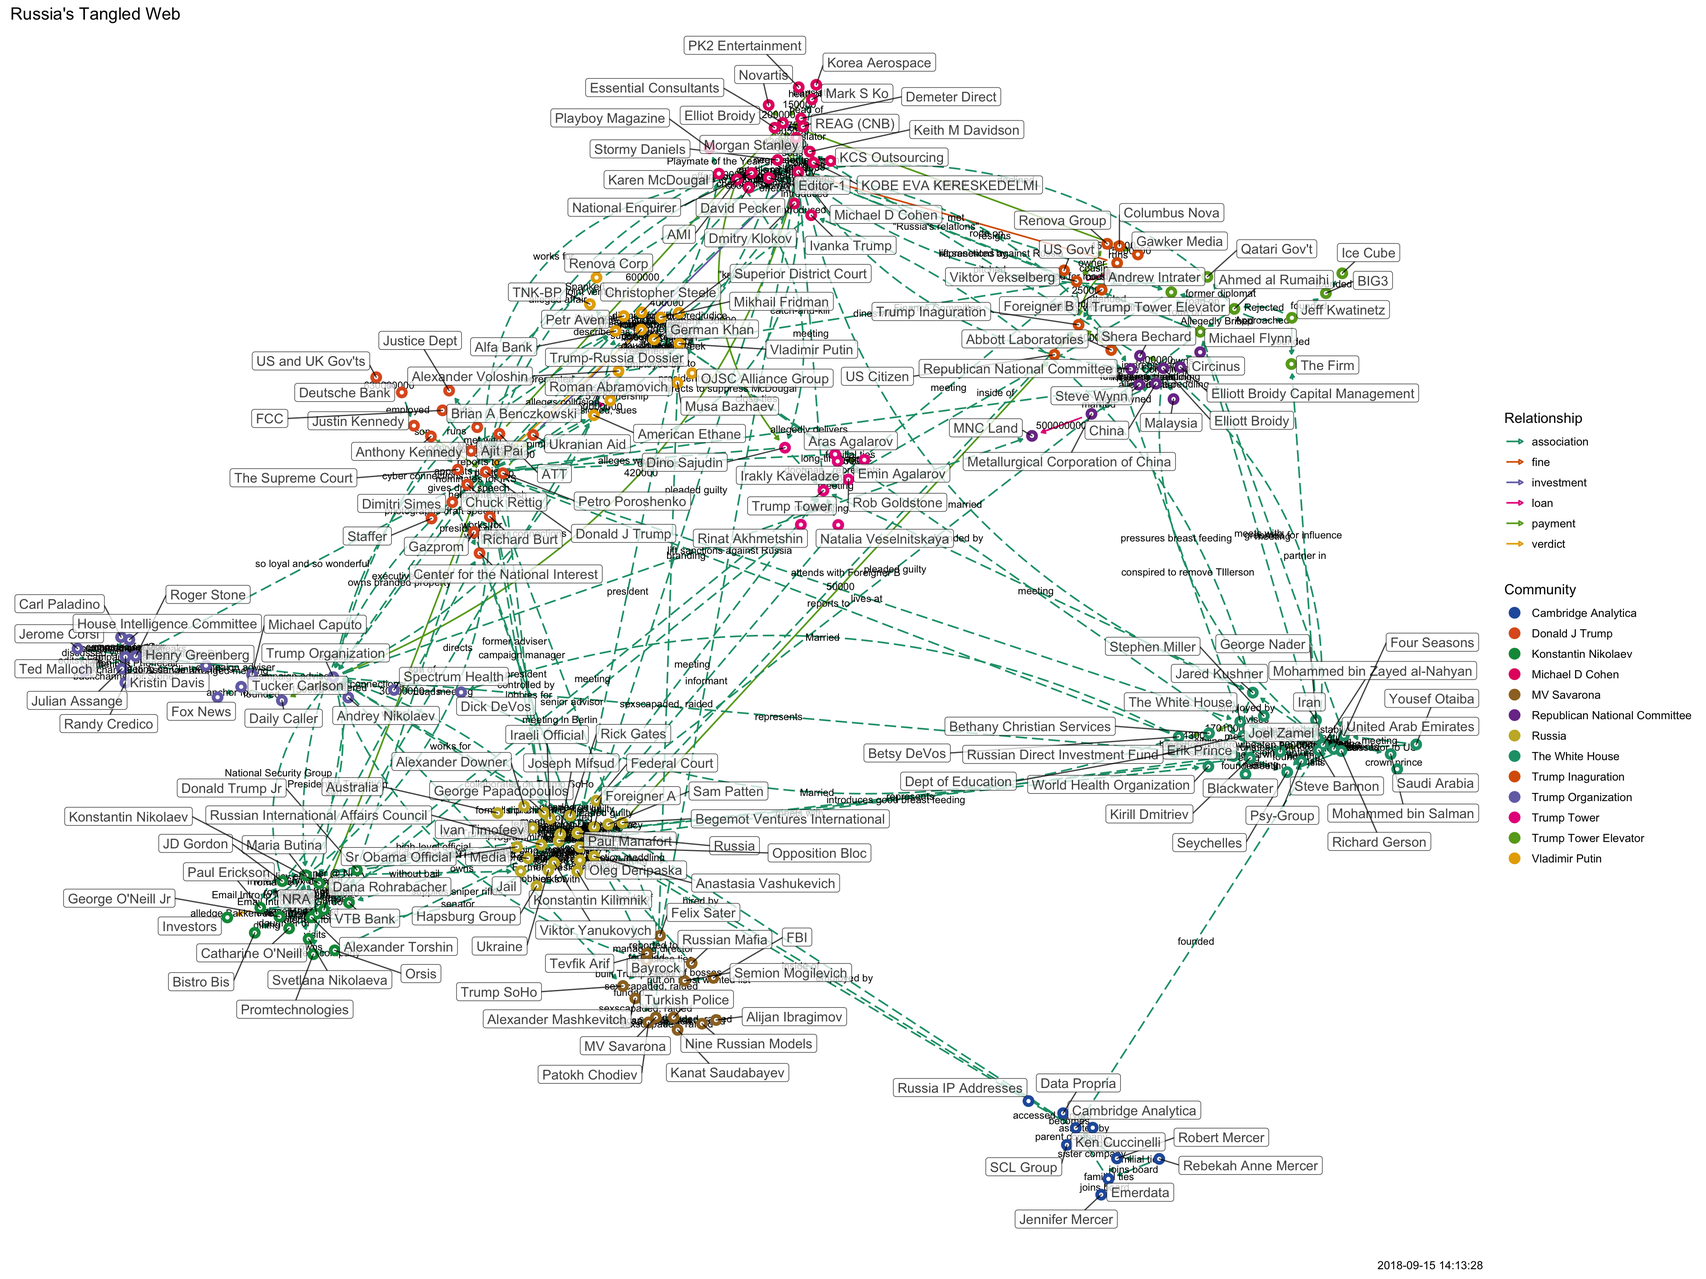
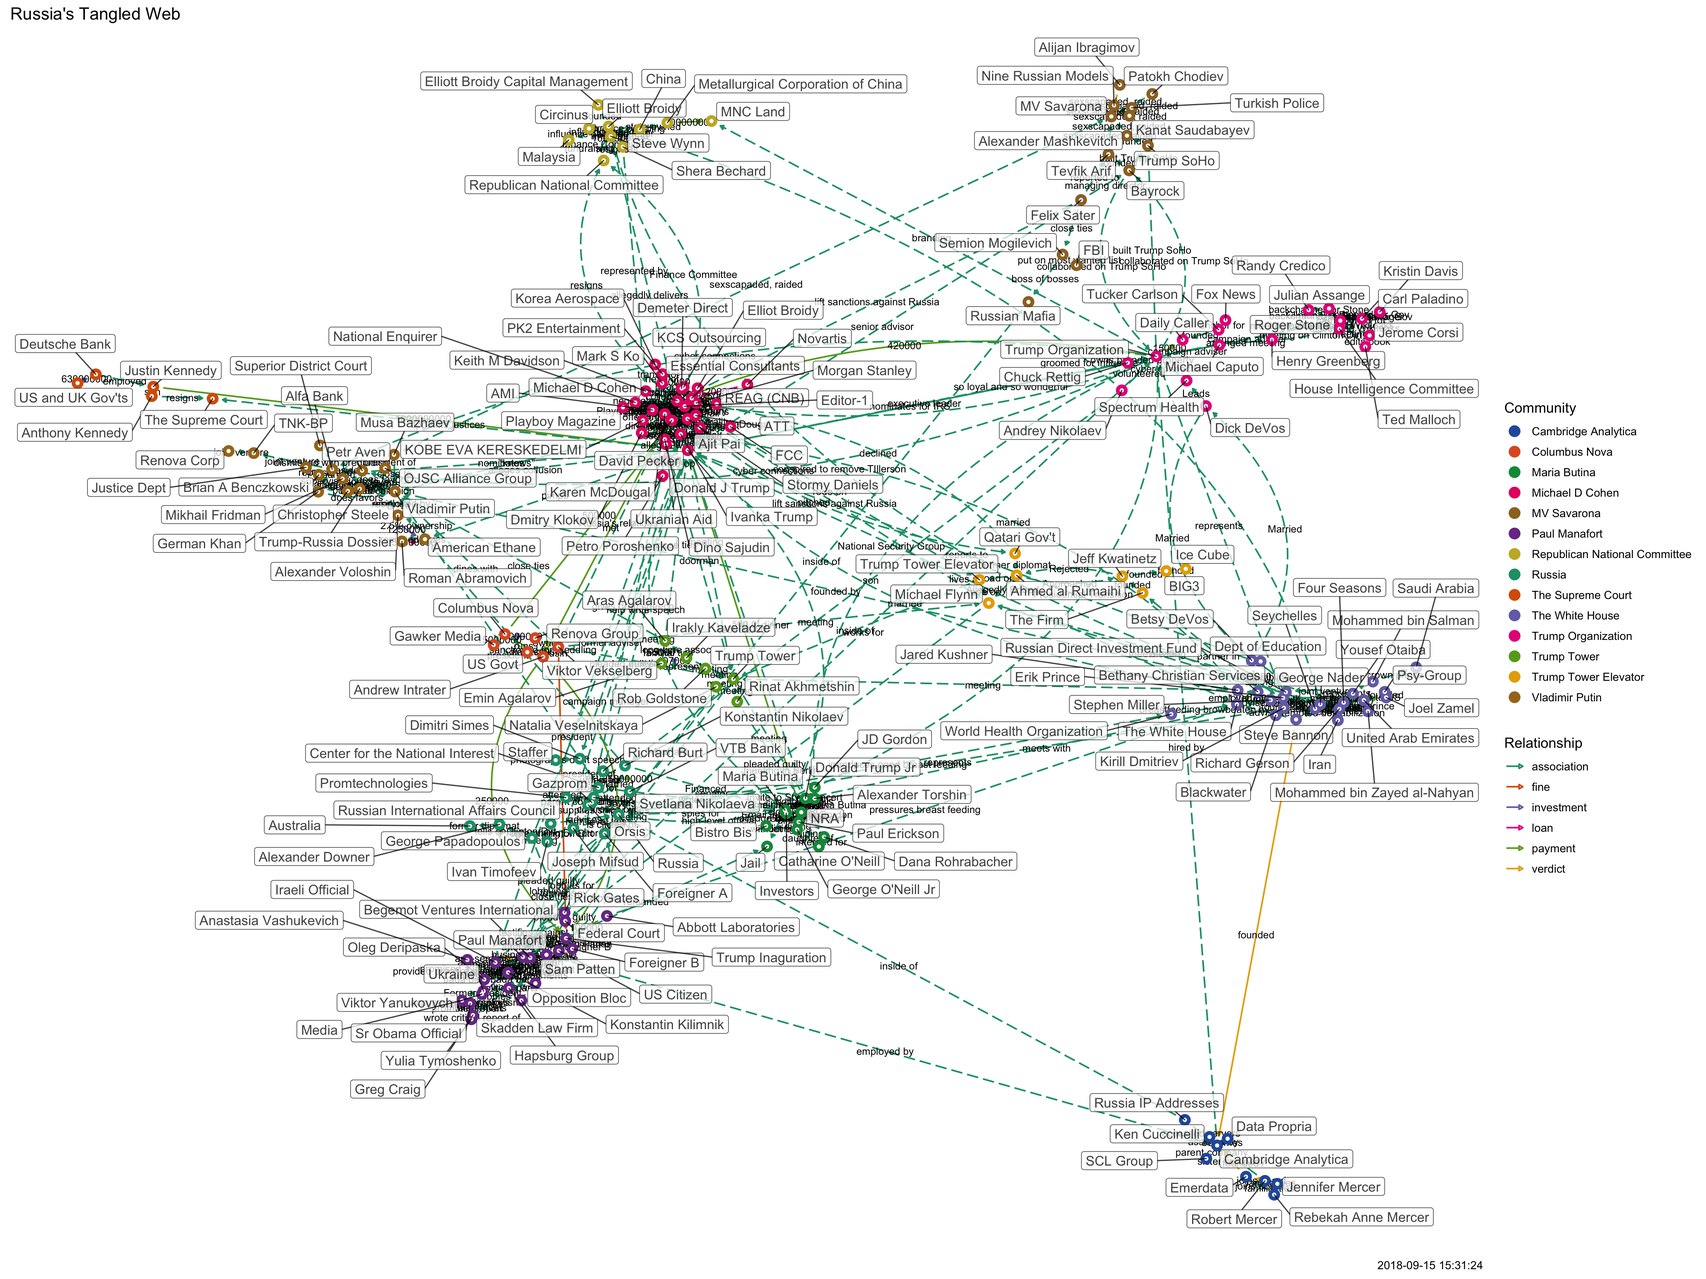
updated

diff --git a/docs/tangled-d3.html b/docs/tangled-d3.html
@@ -1143,11 +1143,11 @@ return function(){for(var n=0,e=0;e<t;++e)n+=Math.random();return n}},um=functio
 </head>
 <body style="background-color: white;">
 <div id="htmlwidget_container">
-<div id="htmlwidget-27c8b98f31e942c12e40" class="forceNetwork html-widget" style="width:960px;height:500px;">
+<div id="htmlwidget-126f7204998c68c80c02" class="forceNetwork html-widget" style="width:960px;height:500px;">
 
 </div>
 </div>
-<script type="application/json" data-for="htmlwidget-27c8b98f31e942c12e40">{"x":{"links":{"source":[0,1,2,2,3,4,5,6,7,8,8,9,10,11,12,12,12,13,14,15,16,17,18,19,20,21,22,23,24,24,25,26,27,28,28,29,30,31,32,33,19,3,3,34,3,34,34,3,35,19,36,34,10,10,10,19,37,37,36,19,19,38,38,38,38,37,19,39,40,40,41,42,41,41,43,40,40,44,44,44,5,43,10,13,13,13,45,45,46,46,19,47,48,48,13,49,50,51,13,13,52,53,51,54,50,13,13,49,51,7,7,7,28,18,23,23,19,34,34,55,56,56,56,56,13,53,39,43,57,57,46,46,58,58,36,36,19,59,60,61,60,62,63,62,60,62,62,49,45,64,65,65,32,22,62,60,37,66,19,67,14,68,37,0,69,70,37,1,1,71,26,72,37,72,73,74,75,63,63,63,76,28,77,78,78,79,37,79,79,80,79,81,80,49,49,80,80,80,79,82,81,83,83,64,84,10,85,59,86,86,86,81,81,86,87,87,88,88,89,90,90,21,87,91,70,92,93,94,92,94,10,10,10,95,95,95,96,97,22,34,37,98,99,99,99,99,39,19,37,100,101,102,19,19,103,100,2,19,37,100,37,100,103,2,104,104,36,101,103,105,105,106,107,108,105,19,73,74,75,109,76,73,110,111,111,111,112,113,62,113,114,113,115,115,113,113,60,113,116,113,43,117,77,118,119,120,121,120,121,122,122,122,123,124,125,126,126,7,127,128,128,129,128,51,128,51,130,129,131,13,132,94,132,133,94,94,94,134,135,94,136,137,138,139,37,79,140,141,141,141,142,122,143,144,144,145,105,146,147,28,28,146,148,145,149,147,150,151,152,153,152,152,105,81,81,79,79,79,154,155,155,4,4,11,154,62,62,62,156,157],"target":[158,71,104,100,158,11,12,31,159,12,160,24,85,155,161,162,36,50,37,19,19,12,163,9,12,37,62,29,12,36,8,71,159,164,19,19,68,158,62,87,12,8,19,25,34,3,158,158,34,37,59,63,165,166,167,162,27,36,37,28,165,161,168,19,17,28,55,55,55,41,40,169,170,169,170,47,39,5,37,171,44,27,13,10,43,45,27,46,45,37,47,19,164,172,51,51,51,173,53,52,174,131,54,27,175,39,176,37,7,51,177,37,163,96,37,178,179,179,19,179,130,53,13,180,180,180,180,180,180,131,19,58,19,63,59,19,59,19,61,178,62,70,70,37,70,181,179,179,179,179,179,70,178,70,60,22,66,28,165,182,67,14,182,27,27,69,71,63,63,1,71,76,72,183,63,63,63,73,74,75,28,76,28,77,70,37,79,70,80,70,81,79,49,80,21,21,70,84,84,84,84,84,82,82,184,85,59,19,79,28,28,79,86,79,79,88,87,91,70,87,28,91,71,89,33,93,94,93,28,28,96,185,95,165,37,165,95,22,97,39,5,62,62,28,98,62,98,98,19,101,102,2,101,103,2,2,19,2,19,37,100,186,37,104,37,179,101,19,19,37,107,107,108,70,19,39,76,76,76,187,187,110,111,37,63,73,73,62,113,114,178,115,113,70,77,98,6,6,158,158,77,77,188,77,77,119,119,117,117,37,98,123,124,70,28,125,7,126,77,51,129,63,70,28,130,130,131,131,129,130,94,189,133,94,37,136,134,135,94,137,137,136,140,138,138,140,70,140,37,142,70,143,190,122,70,146,146,191,191,191,146,28,192,192,192,192,192,192,192,192,63,193,145,21,194,181,49,21,179,179,4,37,63,4,11,98,157,156,62,195],"colour":["red","blue","red","red","red","red","red","red","red","red","blue","red","red","red","red","red","red","red","blue","red","red","red","blue","red","red","blue","blue","red","red","red","blue","blue","red","red","red","red","blue","red","red","blue","blue","blue","blue","blue","blue","blue","blue","blue","blue","blue","blue","blue","blue","blue","blue","blue","blue","blue","blue","blue","blue","blue","blue","blue","blue","blue","blue","blue","blue","blue","blue","blue","blue","blue","blue","blue","blue","blue","blue","blue","blue","blue","blue","blue","blue","blue","blue","blue","blue","blue","blue","blue","blue","blue","blue","blue","blue","blue","blue","blue","blue","blue","blue","blue","blue","blue","blue","blue","blue","blue","blue","blue","blue","blue","blue","blue","blue","blue","blue","blue","blue","blue","blue","blue","blue","blue","blue","blue","blue","blue","blue","blue","blue","blue","blue","blue","blue","blue","blue","blue","blue","blue","blue","blue","blue","blue","blue","blue","blue","blue","blue","blue","blue","blue","blue","blue","blue","blue","blue","blue","blue","blue","blue","blue","blue","blue","blue","blue","blue","blue","blue","blue","blue","blue","blue","blue","blue","blue","blue","blue","blue","blue","blue","blue","blue","blue","blue","blue","blue","blue","blue","blue","blue","blue","blue","blue","blue","blue","blue","blue","blue","blue","blue","blue","blue","blue","blue","blue","blue","blue","blue","blue","blue","blue","blue","blue","blue","blue","blue","blue","blue","blue","blue","blue","blue","blue","blue","blue","blue","blue","blue","blue","blue","blue","blue","blue","blue","blue","blue","blue","blue","blue","blue","blue","blue","blue","blue","blue","blue","blue","blue","blue","blue","blue","blue","blue","blue","blue","blue","blue","blue","blue","blue","blue","blue","blue","blue","blue","blue","blue","blue","blue","blue","blue","blue","blue","blue","blue","blue","blue","blue","blue","blue","blue","blue","blue","blue","blue","blue","blue","blue","blue","blue","blue","blue","blue","blue","blue","blue","blue","blue","blue","blue","blue","blue","blue","blue","blue","blue","blue","blue","blue","blue","blue","blue","blue","blue","blue","blue","blue","blue","blue","blue","blue","blue","blue","blue","blue","blue","blue","blue","blue","blue","blue","blue","blue","blue","blue","blue","blue","blue","blue","blue","blue","blue","blue","blue","blue","blue","blue","blue","blue","blue","blue","blue","blue","blue","blue","blue","blue","blue","blue","blue","blue","blue","blue","blue","blue","blue","blue","blue","blue","blue","blue","blue","blue","blue","blue","blue","blue","blue","blue","blue","blue","blue","blue","blue","blue","blue","blue"]},"nodes":{"name":["Abbott Laboratories","Alexander Voloshin","AMI","Andrew Intrater","Aras Agalarov","ATT","Begemot Ventures International","Betsy DeVos","Columbus Nova","Elliot Broidy","Elliott Broidy","Emin Agalarov","Essential Consultants","George Nader","Justin Kennedy","KCS Outsourcing","KOBE EVA KERESKEDELMI","Korea Aerospace","Metallurgical Corporation of China","Michael D Cohen","Novartis","NRA","Oleg Deripaska","Petro Poroshenko","REAG (CNB)","Renova Group","Roman Abramovich","The White House","Trump Organization","Ukranian Aid","US and UK Gov'ts","US Citizen","Viktor Yanukovych","VTB Bank","Viktor Vekselberg","US Govt","Stormy Daniels","Donald J Trump","Mark S Ko","Michael Flynn","Ahmed al Rumaihi","Jeff Kwatinetz","Ice Cube","Steve Bannon","Ajit Pai","Jared Kushner","Ivanka Trump","Qatari Gov't","Tucker Carlson","Donald Trump Jr","Joel Zamel","Erik Prince","Mohammed bin Salman","Mohammed bin Zayed al-Nahyan","Stephen Miller","Trump Tower Elevator","Richard Gerson","Yousef Otaiba","Dmitry Klokov","Keith M Davidson","Konstantin Kilimnik","Hapsburg Group","Paul Manafort","Vladimir Putin","Rinat Akhmetshin","Natalia Veselnitskaya","Chuck Rettig","Anthony Kennedy","Deutsche Bank","World Health Organization","Russia","American Ethane","Brian A Benczkowski","Mikhail Fridman","German Khan","Petr Aven","Alfa Bank","Cambridge Analytica","Russia IP Addresses","Maria Butina","Alexander Torshin","Paul Erickson","Dana Rohrabacher","Catharine O'Neill","George O'Neill Jr","Shera Bechard","JD Gordon","Konstantin Nikolaev","Svetlana Nikolaeva","Orsis","Andrey Nikolaev","Promtechnologies","Michael Caputo","Henry Greenberg","Roger Stone","Steve Wynn","China","Anastasia Vashukevich","Federal Court","Rick Gates","Karen McDougal","Editor-1","National Enquirer","David Pecker","Dino Sajudin","Felix Sater","FBI","Semion Mogilevich","Russian Mafia","Renova Corp","Christopher Steele","Trump-Russia Dossier","Superior District Court","Sam Patten","Opposition Bloc","Foreigner A","Foreigner B","Robert Mercer","SCL Group","Emerdata","Jennifer Mercer","Rebekah Anne Mercer","George Papadopoulos","Ivan Timofeev","Russian International Affairs Council","Spectrum Health","Dick DeVos","Ken Cuccinelli","Kirill Dmitriev","Russian Direct Investment Fund","Seychelles","United Arab Emirates","Jerome Corsi","Ted Malloch","Randy Credico","Julian Assange","Kristin Davis","Carl Paladino","Dimitri Simes","Staffer","Center for the National Interest","Richard Burt","Gazprom","Alexander Downer","Joseph Mifsud","Tevfik Arif","Bayrock","Alexander Mashkevitch","Turkish Police","Patokh Chodiev","Kanat Saudabayev","Alijan Ibragimov","Musa Bazhaev","Nine Russian Models","Rob Goldstone","Irakly Kaveladze","Iraeli Official","Media","Trump Inaguration","Bethany Christian Services","Gawker Media","Demeter Direct","Morgan Stanley","MNC Land","Daily Caller","Republican National Committee","Elliott Broidy Capital Management","Circinus","PK2 Entertainment","BIG3","The Firm","FCC","Fox News","Blackwater","Saudi Arabia","Psy-Group","Iran","Dept of Education","Ukraine","Trump Tower","Four Seasons","Jail","The Supreme Court","Justice Dept","Bistro Bis","Malaysia","Playboy Magazine","TNK-BP","Data Propria","House Intelligence Committee","Australia","Trump SoHo","MV Savarona","OJSC Alliance Group","Investors","Sr Obama Official"],"group":["9","7","3","9","12","4","2","1","9","3","10","12","3","1","4","3","3","3","10","3","3","6","2","4","3","9","7","1","5","4","4","9","2","6","9","9","3","4","3","13","13","13","13","1","4","1","3","13","5","6","1","1","1","1","1","13","1","1","3","3","2","2","2","7","12","12","4","4","4","1","2","7","4","7","7","7","7","11","11","6","6","6","6","6","6","10","6","6","6","6","5","6","5","5","5","10","10","2","2","2","3","3","3","3","12","8","8","8","8","7","7","7","7","2","2","2","9","11","11","11","11","11","2","2","2","5","5","11","1","1","1","1","5","5","5","5","5","5","4","4","4","4","4","2","2","8","8","8","8","8","8","8","7","8","12","12","2","2","9","1","9","3","3","10","5","10","10","10","3","13","13","4","5","1","1","1","1","1","2","12","1","2","4","4","6","10","3","7","11","5","2","8","8","7","6","2"]},"options":{"NodeID":"name","Group":"group","colourScale":"d3.scaleOrdinal(d3.schemeCategory20);","fontSize":20,"fontFamily":"serif","clickTextSize":50,"linkDistance":50,"linkWidth":"function(d) { return Math.sqrt(d.value); }","charge":-100,"opacity":1,"zoom":true,"legend":false,"arrows":false,"nodesize":false,"radiusCalculation":" Math.sqrt(d.nodesize)+6","bounded":false,"opacityNoHover":1,"clickAction":null}},"evals":[],"jsHooks":[]}</script>
-<script type="application/htmlwidget-sizing" data-for="htmlwidget-27c8b98f31e942c12e40">{"viewer":{"width":450,"height":350,"padding":10,"fill":true},"browser":{"width":960,"height":500,"padding":10,"fill":true}}</script>
+<script type="application/json" data-for="htmlwidget-126f7204998c68c80c02">{"x":{"links":{"source":[0,1,2,2,3,4,5,6,7,8,8,9,10,11,12,12,12,13,14,15,16,17,18,19,20,21,22,23,24,25,25,26,27,28,29,29,30,31,32,33,34,19,3,3,35,3,35,35,3,36,19,37,35,10,10,10,19,38,38,37,19,19,39,39,39,39,38,19,40,41,41,42,43,42,42,44,41,41,45,45,45,5,44,10,13,13,13,46,46,47,47,19,48,49,49,13,50,51,52,13,13,53,54,52,55,51,13,13,50,52,7,7,7,29,18,24,24,19,35,35,56,57,57,57,57,13,54,40,44,58,58,47,47,59,59,37,37,19,60,61,62,61,23,63,23,61,23,23,50,46,64,65,65,33,22,23,61,38,66,19,67,14,68,38,0,69,70,38,1,1,71,27,72,38,72,73,74,75,63,63,63,76,29,77,78,78,79,38,79,79,80,79,81,80,50,50,80,80,80,79,82,81,83,83,64,84,10,85,60,86,86,86,81,81,86,87,87,88,88,89,90,90,21,87,91,70,92,93,94,92,94,10,10,10,95,95,95,96,97,22,35,38,98,99,99,99,99,40,19,38,100,101,102,19,19,103,100,2,19,38,100,38,100,103,2,104,104,37,101,103,105,105,106,107,108,105,19,73,74,75,109,76,73,110,111,111,111,112,113,23,113,114,113,115,115,113,113,61,113,116,113,44,117,77,118,119,120,121,120,121,122,122,122,123,124,125,126,126,7,127,128,128,129,128,52,128,52,130,129,131,13,132,94,132,133,94,94,94,134,135,94,136,137,138,139,38,79,140,141,141,141,142,122,143,144,144,145,105,146,147,29,29,146,148,145,149,147,150,151,152,153,152,152,105,81,81,79,79,79,154,155,155,4,4,11,154,23,23,23,156,157,23,158,159,160,33,160,159,23],"target":[161,71,104,100,161,11,12,32,162,12,163,25,85,155,164,165,37,51,38,19,19,12,166,9,12,38,23,158,30,12,37,8,71,162,167,19,19,68,161,23,87,12,8,19,26,35,3,161,161,35,38,60,63,168,169,170,165,28,37,38,29,168,164,171,19,17,29,56,56,56,42,41,172,173,172,173,48,40,5,38,174,45,28,13,10,44,46,28,47,46,38,48,19,167,175,52,52,52,176,54,53,177,131,55,28,178,40,179,38,7,52,180,38,166,96,38,181,182,182,19,182,130,54,13,183,183,183,183,183,183,131,19,59,19,63,60,19,60,19,62,181,23,70,70,38,70,184,182,182,182,182,182,70,181,70,61,22,66,29,168,185,67,14,185,28,28,69,71,63,63,1,71,76,72,186,63,63,63,73,74,75,29,76,29,77,70,38,79,70,80,70,81,79,50,80,21,21,70,84,84,84,84,84,82,82,187,85,60,19,79,29,29,79,86,79,79,88,87,91,70,87,29,91,71,89,34,93,94,93,29,29,96,188,95,168,38,168,95,22,97,40,5,23,23,29,98,23,98,98,19,101,102,2,101,103,2,2,19,2,19,38,100,189,38,104,38,182,101,19,19,38,107,107,108,70,19,40,76,76,76,190,190,110,111,38,63,73,73,23,113,114,181,115,113,70,77,98,6,6,161,161,77,77,191,77,77,119,119,117,117,38,98,123,124,70,29,125,7,126,77,52,129,63,70,29,130,130,131,131,129,130,94,192,133,94,38,136,134,135,94,137,137,136,140,138,138,140,70,140,38,142,70,143,193,122,70,146,146,194,194,194,146,29,195,195,195,195,195,195,195,195,63,196,145,21,197,184,50,21,182,182,4,38,63,4,11,98,157,156,23,198,158,159,160,181,160,33,157,158],"colour":["red","blue","red","red","red","red","red","red","red","red","blue","red","red","red","red","red","red","red","blue","red","red","red","blue","red","red","blue","blue","red","red","red","red","blue","blue","red","red","red","red","blue","red","red","blue","blue","blue","blue","blue","blue","blue","blue","blue","blue","blue","blue","blue","blue","blue","blue","blue","blue","blue","blue","blue","blue","blue","blue","blue","blue","blue","blue","blue","blue","blue","blue","blue","blue","blue","blue","blue","blue","blue","blue","blue","blue","blue","blue","blue","blue","blue","blue","blue","blue","blue","blue","blue","blue","blue","blue","blue","blue","blue","blue","blue","blue","blue","blue","blue","blue","blue","blue","blue","blue","blue","blue","blue","blue","blue","blue","blue","blue","blue","blue","blue","blue","blue","blue","blue","blue","blue","blue","blue","blue","blue","blue","blue","blue","blue","blue","blue","blue","blue","blue","blue","blue","blue","blue","blue","blue","blue","blue","blue","blue","blue","blue","blue","blue","blue","blue","blue","blue","blue","blue","blue","blue","blue","blue","blue","blue","blue","blue","blue","blue","blue","blue","blue","blue","blue","blue","blue","blue","blue","blue","blue","blue","blue","blue","blue","blue","blue","blue","blue","blue","blue","blue","blue","blue","blue","blue","blue","blue","blue","blue","blue","blue","blue","blue","blue","blue","blue","blue","blue","blue","blue","blue","blue","blue","blue","blue","blue","blue","blue","blue","blue","blue","blue","blue","blue","blue","blue","blue","blue","blue","blue","blue","blue","blue","blue","blue","blue","blue","blue","blue","blue","blue","blue","blue","blue","blue","blue","blue","blue","blue","blue","blue","blue","blue","blue","blue","blue","blue","blue","blue","blue","blue","blue","blue","blue","blue","blue","blue","blue","blue","blue","blue","blue","blue","blue","blue","blue","blue","blue","blue","blue","blue","blue","blue","blue","blue","blue","blue","blue","blue","blue","blue","blue","blue","blue","blue","blue","blue","blue","blue","blue","blue","blue","blue","blue","blue","blue","blue","blue","blue","blue","blue","blue","blue","blue","blue","blue","blue","blue","blue","blue","blue","blue","blue","blue","blue","blue","blue","blue","blue","blue","blue","blue","blue","blue","blue","blue","blue","blue","blue","blue","blue","blue","blue","blue","blue","blue","blue","blue","blue","blue","blue","blue","blue","blue","blue","blue","blue","blue","blue","blue","blue","blue","blue","blue","blue","blue","blue","blue","blue","blue","blue","blue","blue","blue","blue","blue","blue","blue","blue","blue","blue","blue","blue","blue","blue","blue","blue","blue","blue","blue","blue","blue","blue","blue","blue","blue","blue","blue"]},"nodes":{"name":["Abbott Laboratories","Alexander Voloshin","AMI","Andrew Intrater","Aras Agalarov","ATT","Begemot Ventures International","Betsy DeVos","Columbus Nova","Elliot Broidy","Elliott Broidy","Emin Agalarov","Essential Consultants","George Nader","Justin Kennedy","KCS Outsourcing","KOBE EVA KERESKEDELMI","Korea Aerospace","Metallurgical Corporation of China","Michael D Cohen","Novartis","NRA","Oleg Deripaska","Paul Manafort","Petro Poroshenko","REAG (CNB)","Renova Group","Roman Abramovich","The White House","Trump Organization","Ukranian Aid","US and UK Gov'ts","US Citizen","Viktor Yanukovych","VTB Bank","Viktor Vekselberg","US Govt","Stormy Daniels","Donald J Trump","Mark S Ko","Michael Flynn","Ahmed al Rumaihi","Jeff Kwatinetz","Ice Cube","Steve Bannon","Ajit Pai","Jared Kushner","Ivanka Trump","Qatari Gov't","Tucker Carlson","Donald Trump Jr","Joel Zamel","Erik Prince","Mohammed bin Salman","Mohammed bin Zayed al-Nahyan","Stephen Miller","Trump Tower Elevator","Richard Gerson","Yousef Otaiba","Dmitry Klokov","Keith M Davidson","Konstantin Kilimnik","Hapsburg Group","Vladimir Putin","Rinat Akhmetshin","Natalia Veselnitskaya","Chuck Rettig","Anthony Kennedy","Deutsche Bank","World Health Organization","Russia","American Ethane","Brian A Benczkowski","Mikhail Fridman","German Khan","Petr Aven","Alfa Bank","Cambridge Analytica","Russia IP Addresses","Maria Butina","Alexander Torshin","Paul Erickson","Dana Rohrabacher","Catharine O'Neill","George O'Neill Jr","Shera Bechard","JD Gordon","Konstantin Nikolaev","Svetlana Nikolaeva","Orsis","Andrey Nikolaev","Promtechnologies","Michael Caputo","Henry Greenberg","Roger Stone","Steve Wynn","China","Anastasia Vashukevich","Federal Court","Rick Gates","Karen McDougal","Editor-1","National Enquirer","David Pecker","Dino Sajudin","Felix Sater","FBI","Semion Mogilevich","Russian Mafia","Renova Corp","Christopher Steele","Trump-Russia Dossier","Superior District Court","Sam Patten","Opposition Bloc","Foreigner A","Foreigner B","Robert Mercer","SCL Group","Emerdata","Jennifer Mercer","Rebekah Anne Mercer","George Papadopoulos","Ivan Timofeev","Russian International Affairs Council","Spectrum Health","Dick DeVos","Ken Cuccinelli","Kirill Dmitriev","Russian Direct Investment Fund","Seychelles","United Arab Emirates","Jerome Corsi","Ted Malloch","Randy Credico","Julian Assange","Kristin Davis","Carl Paladino","Dimitri Simes","Staffer","Center for the National Interest","Richard Burt","Gazprom","Alexander Downer","Joseph Mifsud","Tevfik Arif","Bayrock","Alexander Mashkevitch","Turkish Police","Patokh Chodiev","Kanat Saudabayev","Alijan Ibragimov","Musa Bazhaev","Nine Russian Models","Rob Goldstone","Irakly Kaveladze","Iraeli Official","Media","Skadden Law Firm","Greg Craig","Yulia Tymoshenko","Trump Inaguration","Bethany Christian Services","Gawker Media","Demeter Direct","Morgan Stanley","MNC Land","Daily Caller","Republican National Committee","Elliott Broidy Capital Management","Circinus","PK2 Entertainment","BIG3","The Firm","FCC","Fox News","Blackwater","Saudi Arabia","Psy-Group","Iran","Dept of Education","Ukraine","Trump Tower","Four Seasons","Jail","The Supreme Court","Justice Dept","Bistro Bis","Malaysia","Playboy Magazine","TNK-BP","Data Propria","House Intelligence Committee","Australia","Trump SoHo","MV Savarona","OJSC Alliance Group","Investors","Sr Obama Official"],"group":["3","6","1","13","12","1","3","2","13","1","9","12","1","2","14","1","1","1","9","1","1","8","3","3","1","1","13","6","2","4","1","14","3","3","5","13","13","1","1","1","11","11","11","11","2","1","2","1","11","4","8","2","2","2","2","2","11","2","2","1","1","3","3","6","12","12","4","14","14","2","5","6","6","6","6","6","6","10","10","8","8","8","8","8","8","9","8","5","5","5","4","5","4","4","4","9","9","3","3","3","1","1","1","1","1","7","7","7","7","6","6","6","6","3","3","5","3","10","10","10","10","10","5","5","5","4","4","10","2","2","2","2","4","4","4","4","4","4","5","5","5","5","5","5","5","7","7","7","7","7","7","7","6","7","12","12","3","3","3","3","3","3","2","13","1","1","9","4","9","9","9","1","11","11","1","4","2","2","2","2","2","3","12","2","8","14","6","8","9","1","6","10","4","5","7","7","6","8","3"]},"options":{"NodeID":"name","Group":"group","colourScale":"d3.scaleOrdinal(d3.schemeCategory20);","fontSize":20,"fontFamily":"serif","clickTextSize":50,"linkDistance":50,"linkWidth":"function(d) { return Math.sqrt(d.value); }","charge":-100,"opacity":1,"zoom":true,"legend":false,"arrows":false,"nodesize":false,"radiusCalculation":" Math.sqrt(d.nodesize)+6","bounded":false,"opacityNoHover":1,"clickAction":null}},"evals":[],"jsHooks":[]}</script>
+<script type="application/htmlwidget-sizing" data-for="htmlwidget-126f7204998c68c80c02">{"viewer":{"width":450,"height":350,"padding":10,"fill":true},"browser":{"width":960,"height":500,"padding":10,"fill":true}}</script>
 </body>
 </html>
